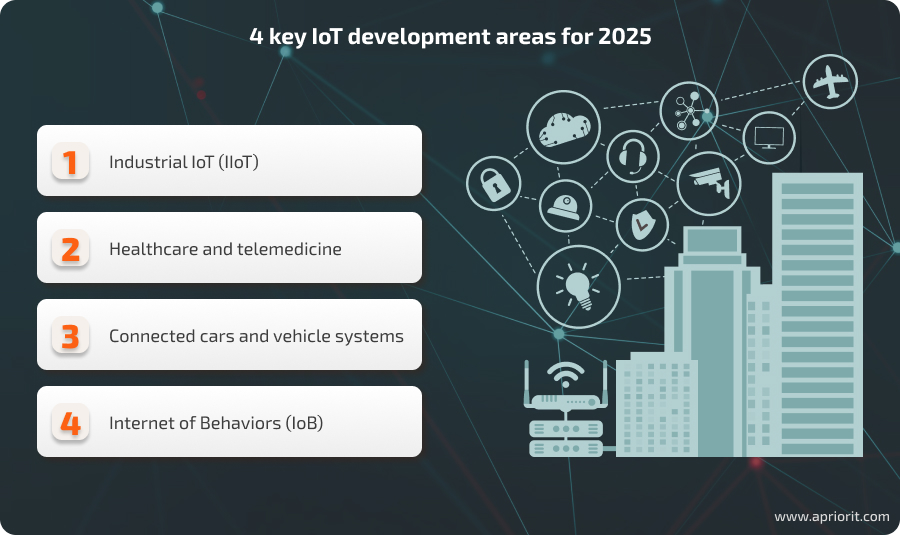
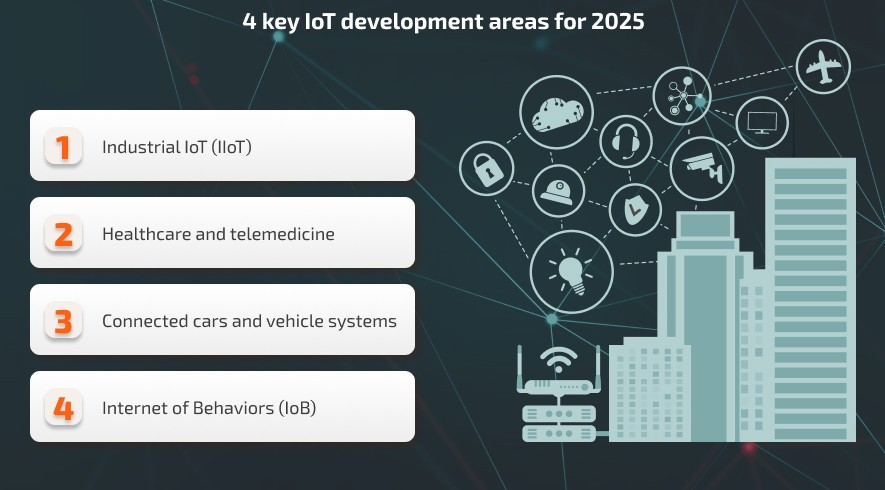
Updated images and blog page changes

diff --git a/src/app/blog/page.tsx b/src/app/blog/page.tsx
@@ -27,7 +27,7 @@ interface BlogPost {
 const allPosts: BlogPost[] = [
     { id: 1, title: "5 Emerging Trends in Software Development for 2025", description: "From AI-driven development to decentralized applications, we explore the latest practices reshaping how software is built. This includes a deeper look into the impact of quantum computing on cryptography and the rise of serverless architectures for scalable, cost-effective solutions.", image: "/img/first.jpg", author: "Tejas", date: "August 19, 2025", tags: ["Technology", "Future", "Dev"], readTime: "7 min read" },
     { "id": 2, "title": "Beyond the Cloud: How Edge Computing is Powering the Next-Gen IoT", "description": "We explore why processing data closer to its source is a game-changer. This post breaks down edge computing, its synergy with IoT devices, and real-world applications in smart cities, autonomous vehicles, and real-time analytics.", "image": "/img/Beyond-the-Cloud.png", "author": "Rohan Verma", "date": "August 28, 2025", "tags": ["Technology", "Infrastructure", "Future"], "readTime": "8 min read" },
-    { "id": 3, "title": "The Post-Screen Era: Are We Ready for Brain-Computer Interfaces (BCIs)?", "description": "Imagine controlling devices with just your thoughts. We delve into the current state of BCI technology, from medical breakthroughs to potential consumer applications, and discuss the immense ethical and social questions they raise for our future.", "image": "/img/The-Post-Screen-Era.jpeg", "author": "Dr. Alisha Ray", "date": "August 27, 2025", "tags": ["Future", "Technology", "UI/UX"], "readTime": "9 min read" },
+    { "id": 3, "title": "The Post-Screen Era: Are We Ready for Brain-Computer Interfaces (BCIs)?", "description": "Imagine controlling devices with just your thoughts. We delve into the current state of BCI technology, from medical breakthroughs to potential consumer applications, and discuss the immense ethical and social questions they raise for our future.", "image": "/img/The-Post-Screen-Era.jpg", "author": "Dr. Alisha Ray", "date": "August 27, 2025", "tags": ["Future", "Technology", "UI/UX"], "readTime": "9 min read" },
     { "id": 4, "title": "The AI Co-pilot: How Generative AI is Transforming the Developer Workflow", "description": "From code generation with GitHub Copilot to automated testing and debugging, AI is no longer just a tool but a partner. This article explores how developers can leverage AI to boost productivity, learn faster, and focus on creative problem-solving.", "image": "/img/The-AI-Co-pilot.webp", "author": "Samir Khan", "date": "August 26, 2025", "tags": ["Dev", "Technology"], "readTime": "7 min read" },
     { "id": 5, "title": "Inclusive by Design: Why Accessibility is the Key to Great Product Design", "description": "Accessibility isn't just a compliance checkbox; it's a foundation for creating products that work for everyone. We cover practical tips on color contrast, semantic HTML, ARIA labels, and designing for neurodiversity to build truly inclusive experiences.", "image": "/img/Inclusive-by-Design.webp", "author": "Priya Sharma", "date": "August 25, 2025", "tags": ["Design", "UI/UX"], "readTime": "8 min read" },
     { "id": 6, "title": "A Guide to Microinteractions: The Small Details That Create Big UX Wins", "description": "What makes an app feel delightful to use? Often, it's the microinteractions. We break down the four key parts of a microinteraction and show examples of how subtle animations and feedback can drastically improve usability and user satisfaction.", "image": "/img/Microinteractions.avif", "author": "Ben Carter", "date": "August 24, 2025", "tags": ["UI/UX", "Design"], "readTime": "6 min read" },
